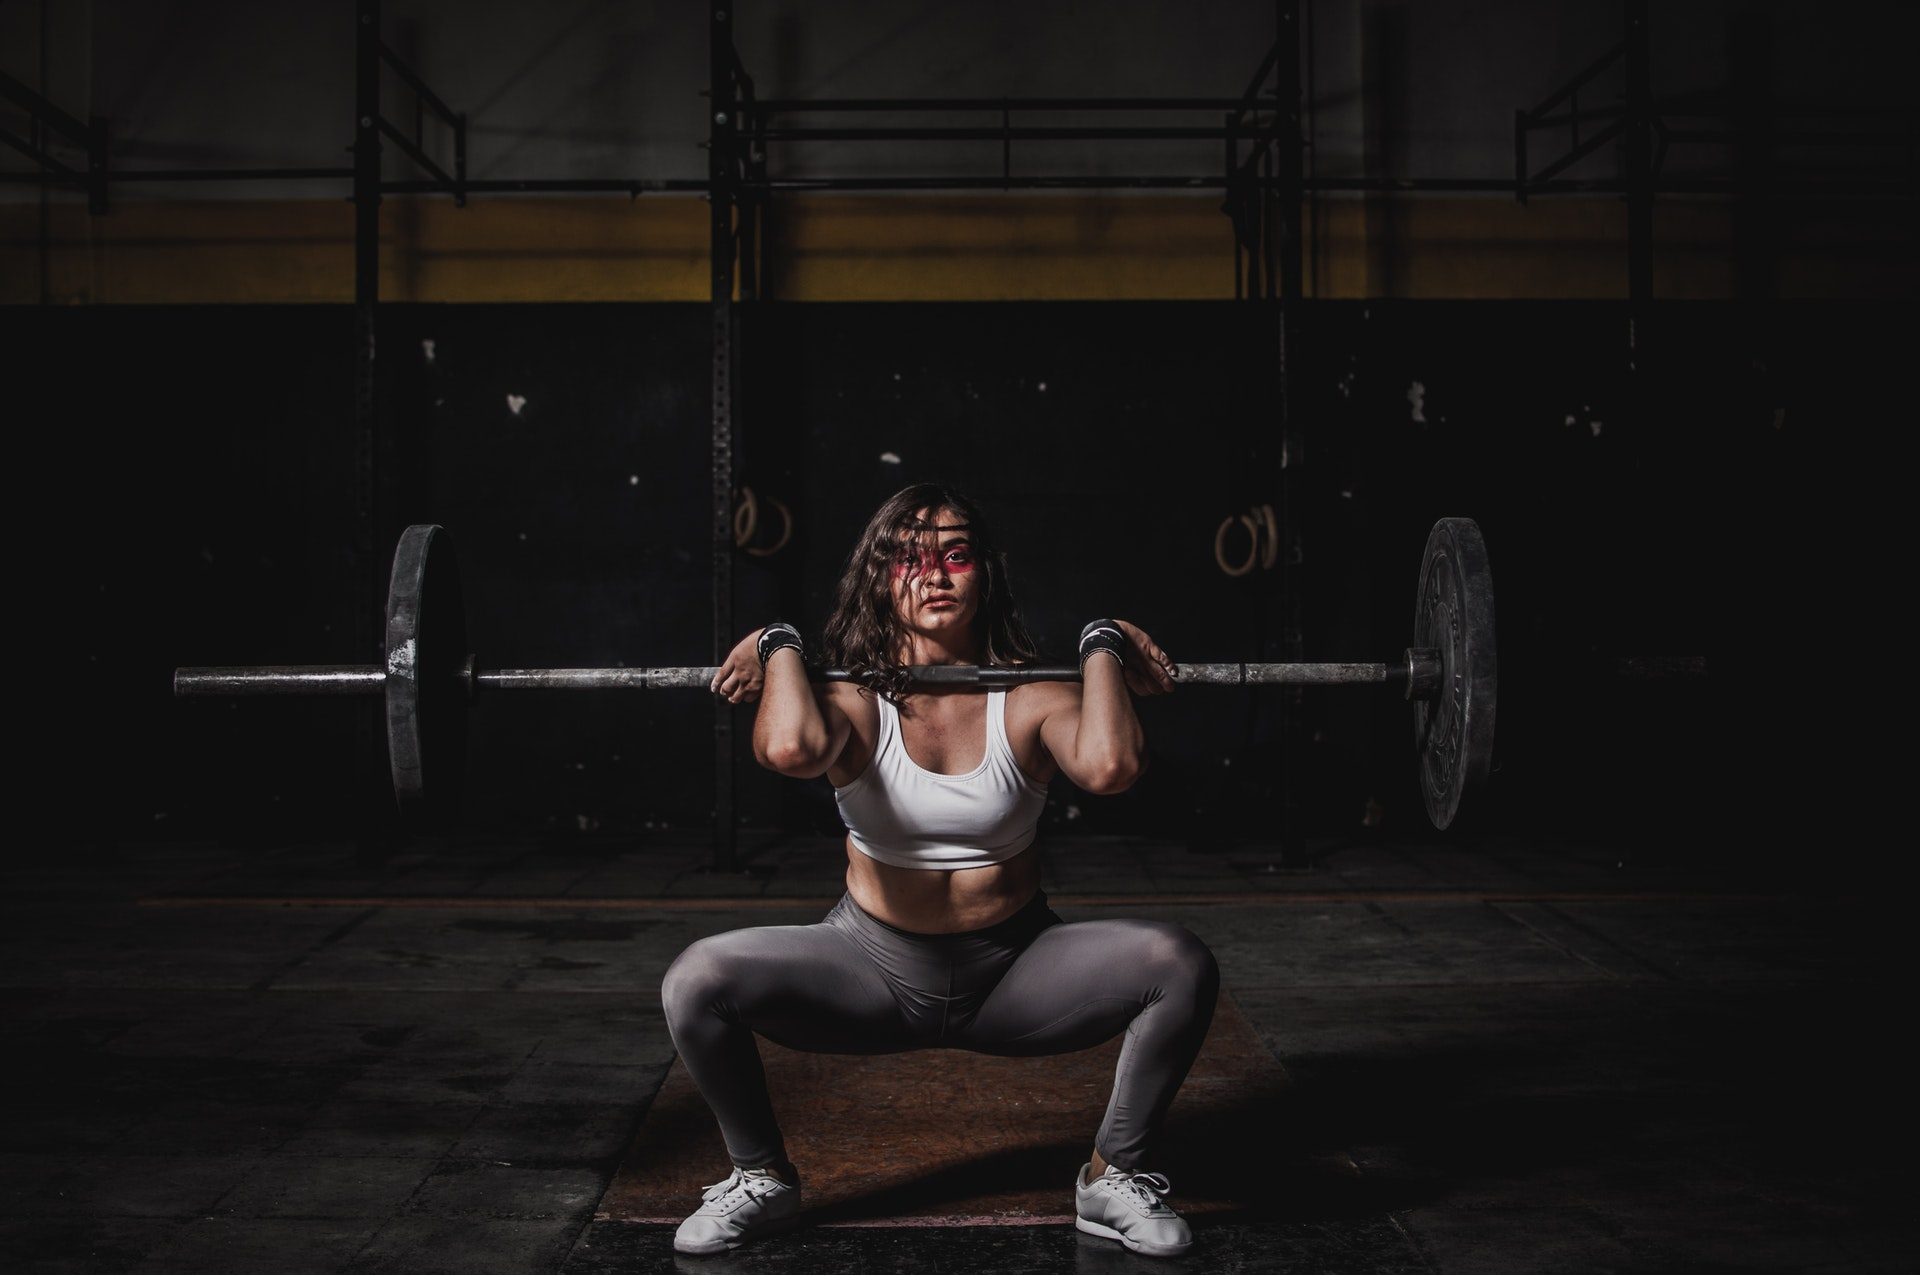
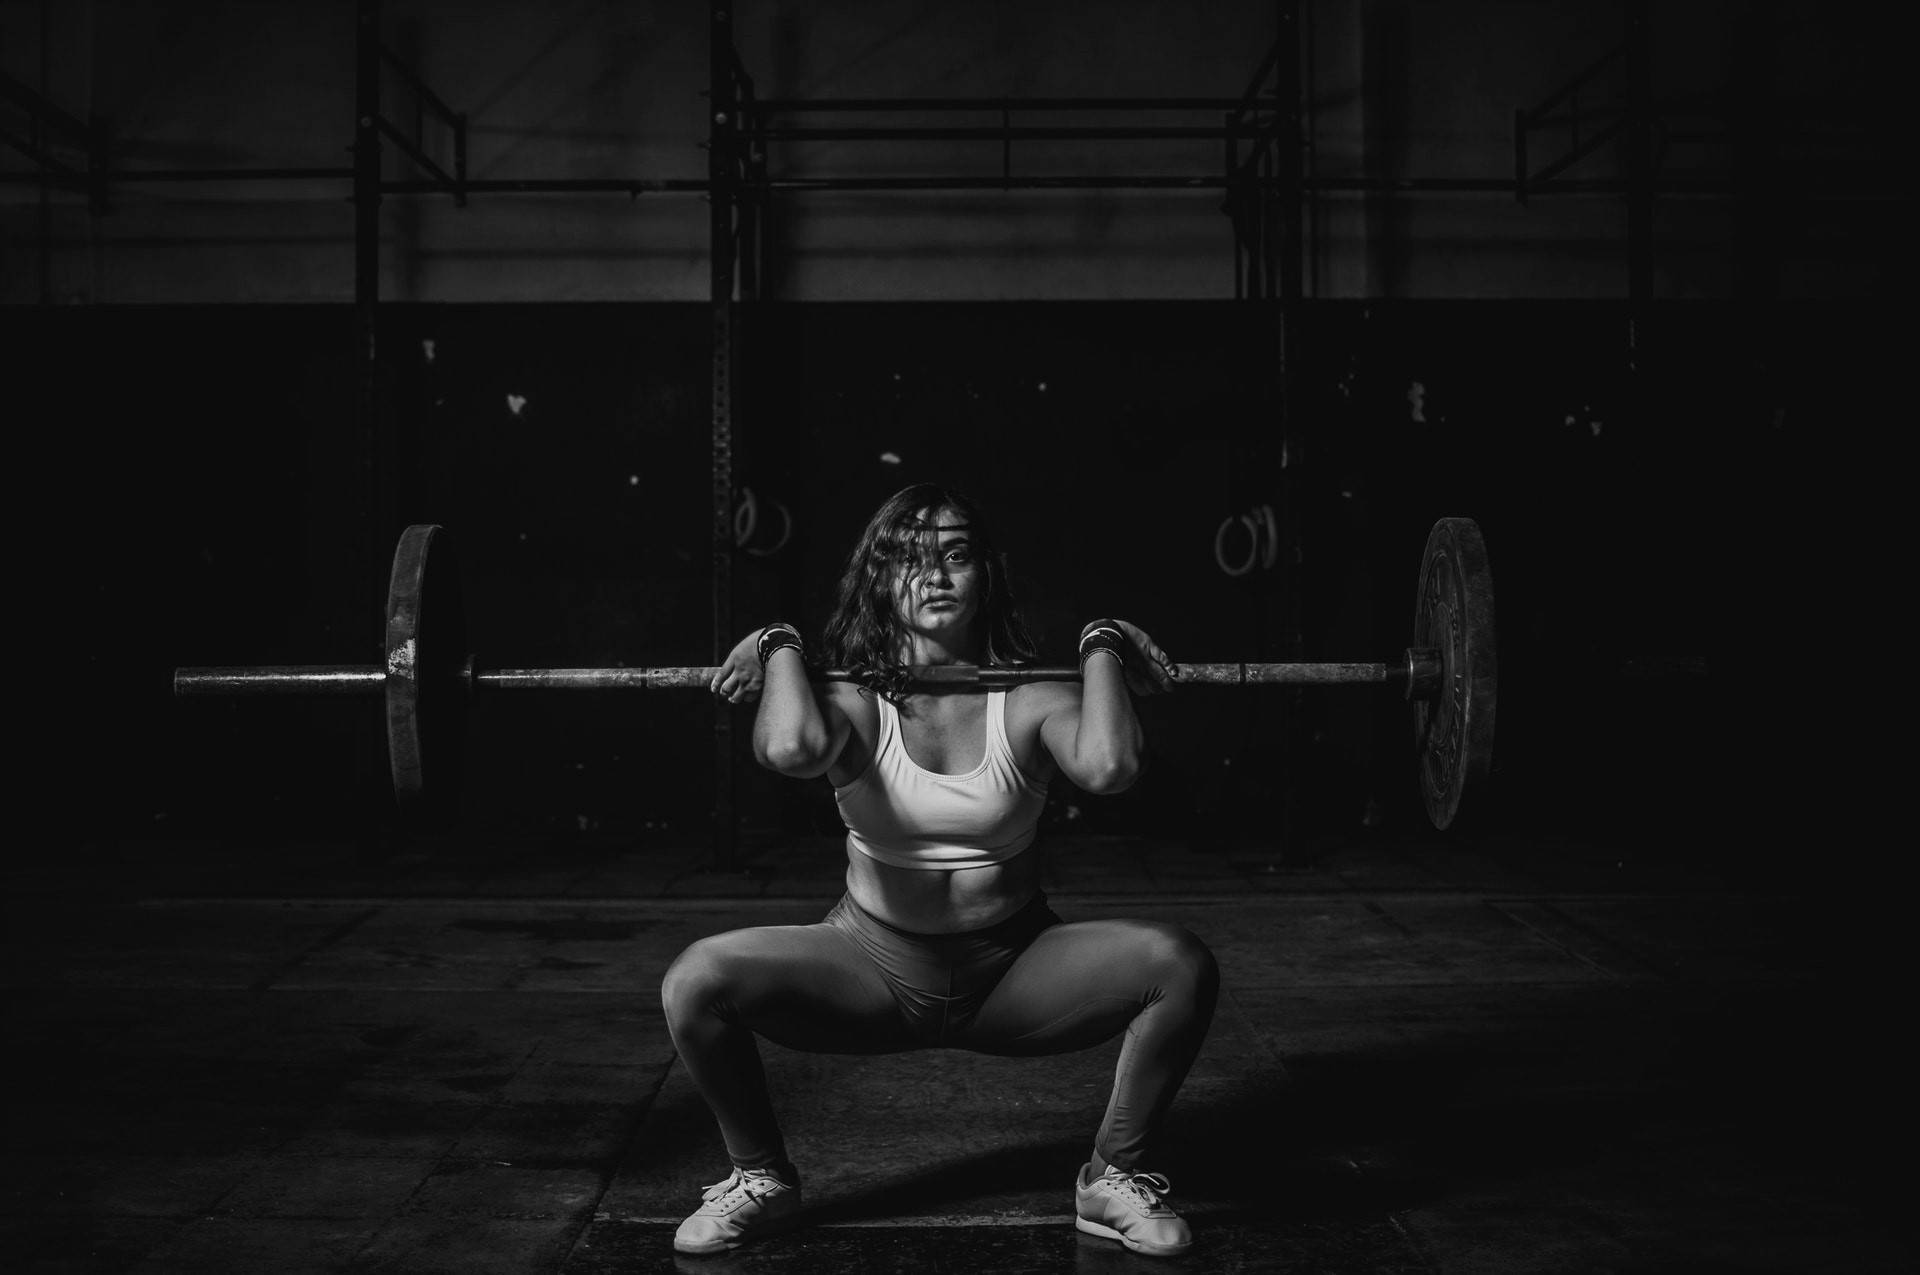
Second commit

diff --git a/index.html b/index.html
@@ -18,16 +18,55 @@
             <div class="collapse navbar-collapse" id="navbarText">
                 <ul class="navbar-nav mr-auto">
                     <li class="nav-item">
-                        <a class="nav-link" href="#">About</a>
+                        <a class="nav-link" href="#about">About</a>
                     </li>
                     <li class="nav-item">
-                        <a class="nav-link" href="#">Classes</a>
+                        <a class="nav-link" href="#classes">Classes</a>
                     </li>
                     <li class="nav-item">
                         <a class="nav-link" href="#">Gallery</a>
                     </li>
                 </ul>
-                <a href="/login" class="btn btn-s btn-darkred">Sign In</a>
+                <button type="button" class="btn btn-s btn-darkred" data-toggle="modal" data-target="#exampleModal">
+                    Sign In
+                </button>
+                <div class="modal fade" id="exampleModal" tabindex="-1" role="dialog" aria-labelledby="exampleModalLabel" aria-hidden="true">
+                    <div class="modal-dialog" role="document">
+                        <div class="modal-content">
+                            <div class="modal-header">
+                                <h5 class="modal-title" id="exampleModalLabel">Details</h5>
+                                <button type="button" class="close" data-dismiss="modal" aria-label="Close">
+                                    <span aria-hidden="true">&times;</span>
+                                </button>
+                            </div>
+                            <div class="modal-body">
+                                <form>
+                                    <div class="form-row">
+                                        <div class="col">
+                                            <input type="text" class="form-control" placeholder="First name">
+                                        </div>
+                                        <div class="col">
+                                            <input type="text" class="form-control" placeholder="Last name">
+                                        </div>
+                                    </div>
+                                    <div class="form-group">
+                                        <label for="formGroupExampleInput"></label>
+                                        <input type="text" class="form-control" id="formGroupExampleInput" placeholder="Email">
+                                    </div>
+                                    <div class="form-group">
+                                        <label for="formGroupExampleInput2"></label>
+                                        <input type="text" class="form-control" id="formGroupExampleInput2" placeholder="Password">
+                                    </div>
+                                    
+                                </form>
+                            </div>
+                            <div class="modal-footer">
+                                <button type="button" class="btn btn-secondary" data-dismiss="modal">Close</button>
+                                <button type="button" class="btn btn-s btn-darkred">Save changes</button>
+                            </div>
+                        </div>
+                    </div>
+                </div>
             </div>
         </nav>   
     </div>
@@ -35,11 +74,135 @@
         <div class="row">
             <div class="col-12">
                 <section class="jumbotron text-center">
-                    
+                    <h2 class="jumbotron-h">Congratulations on taking first steps towards your goal.</h2>
+                    <p class="lead">You deserve to feel your best everyday.</p>
+                    <a href="#about" class="btn btn-s btn-darkred">Find out more</a>
                 </section>
             </div>
         </div>
-
     </div>
+    <div class="jumbotron about text-center" id="about">
+        <h4 class="display-4">We are here for you!</h4>
+        <p class="lead">All our instructors are fully qualified & trained. We are a gym for people of all fitness levels and are passionate in helping you get the best from your workout in a safe and friendly environment.</p>
+        
+        <p class="lead">
+        <a class="btn btn-primary btn-lg" href="#classes" role="button">Learn more</a>
+        </p>
+    </div>
+    <div class="classes container-fluid">
+    <h1>Classes</h1>
+        <div class="classes-container">
+            <div class="row card-deck" id="classes">
+                <div class="card text-center col-sm-4">
+                    <div class="card-header">
+                        <h4>Free Trial</h4>
+                    </div>
+                    <div class="card-body">
+                        <h3 class="card-title">FREE / 1 Class</h3>
+                        <p class="card-text">First class is for free at MazeGym</p>
+                        <a href="#" class="btn btn-s btn-darkred">Go somewhere</a>
+                    </div>
+                </div>
+                <div class="card text-center col-sm-4">
+                    <div class="card-header">
+                        <h4>Pay per once</h4>
+                    </div>
+                    <div class="card-body">
+                        <h3 class="card-title">10€ / 1 Class</h3>
+                        <p class="card-text">One class at MazeGym</p>
+                        <a href="#" class="btn btn-primary">Go somewhere</a>
+                    </div>
+                </div>
+                <div class="card text-center col-sm-4">
+                    <div class="card-header">
+                        <h4>Private Training</h4>
+                    </div>
+                    <div class="card-body">
+                        <h3 class="card-title">300€ / per month </h3>
+                        <p class="card-text">4 private sessions per week</p>
+                        <a href="#" class="btn btn-primary">Go somewhere</a>
+                    </div>
+                </div>
+            </div>
+        </div>
+        <div class="classes-container second">
+            <div class="row card-deck">
+                <div class="card text-center col-sm-4">
+                    <div class="card-header">
+                        <h4>Training in Group</h4>
+                    </div>
+                    <div class="card-body">
+                        <h3 class="card-title">100€ / per month</h3>
+                        <p class="card-text">2 Group classes per week</p>
+                        <a href="#" class="btn btn-primary">Go somewhere</a>
+                    </div>
+                </div>
+                <div class="card text-center col-sm-4">
+                    <div class="card-header">
+                        <h4>Mom & Baby</h4>
+                    </div>
+                    <div class="card-body">
+                        <h3 class="card-title">100€ / per month</h3>
+                        <p class="card-text">Group classes twice per week</p>
+                        <a href="#" class="btn btn-primary">Go somewhere</a>
+                    </div>
+                </div>
+                <div class="card text-center col-sm-4">
+                    <div class="card-header">
+                        <h4>Under 18 / Unlimited</h4>
+                    </div>
+                    <div class="card-body">
+                        <h3 class="card-title">50€ / per month</h3>
+                        <p class="card-text"></p>
+                        <a href="#" class="btn btn-primary">Go somewhere</a>
+                    </div>
+                </div>
+            </div>
+        </div>
+    </div>
+    <div class="container-fluid gallery">
+        <h1>Gallery</h1>
+        <div id="carouselExampleFade" class="carousel slide carousel-fade" data-ride="carousel">
+            <div class="carousel-inner">
+                <div class="carousel-item active">
+                    <img src="assets/images/group1.jpg" class="d-block w-100" alt="...">
+                </div>
+                <div class="carousel-item">
+                    <img src="assets/images/group2.jpg" class="d-block w-100" alt="...">
+                </div>
+                <div class="carousel-item">
+                    <img src="assets/images/men1.jpg" class="d-block w-100" alt="...">
+                </div>
+                <div class="carousel-item">
+                    <img src="assets/images/men2.jpg" class="d-block w-100" alt="...">
+                </div>
+                <div class="carousel-item">
+                    <img src="assets/images/woman3.jpg" class="d-block w-100" alt="...">
+                </div>
+                <div class="carousel-item">
+                    <img src="assets/images/man3.jpg" class="d-block w-100" alt="...">
+                </div>
+                <div class="carousel-item">
+                    <img src="assets/images/woman4.jpg" class="d-block w-100" alt="...">
+                </div>
+            </div>
+            <a class="carousel-control-prev" href="#carouselExampleFade" role="button" data-slide="prev">
+                <span class="carousel-control-prev-icon" aria-hidden="true"></span>
+                <span class="sr-only">Previous</span>
+            </a>
+            <a class="carousel-control-next" href="#carouselExampleFade" role="button" data-slide="next">
+                <span class="carousel-control-next-icon" aria-hidden="true"></span>
+                <span class="sr-only">Next</span>
+            </a>
+        </div>
+    </div>
+    <div class="container-fluid video">
+        <iframe width="50%" height="50%" src="https://www.youtube.com/embed/m_7YzRBB_RA" frameborder="0" allow="accelerometer; autoplay; clipboard-write; encrypted-media; gyroscope; picture-in-picture" allowfullscreen></iframe>
+    </div>
+    <script src="https://code.jquery.com/jquery-3.5.1.slim.min.js" integrity="sha384-DfXdz2htPH0lsSSs5nCTpuj/zy4C+OGpamoFVy38MVBnE+IbbVYUew+OrCXaRkfj" crossorigin="anonymous"></script>
+    <script src="https://cdn.jsdelivr.net/npm/popper.js@1.16.1/dist/umd/popper.min.js" integrity="sha384-9/reFTGAW83EW2RDu2S0VKaIzap3H66lZH81PoYlFhbGU+6BZp6G7niu735Sk7lN" crossorigin="anonymous"></script>
+    <script src="https://cdn.jsdelivr.net/npm/bootstrap@4.5.3/dist/js/bootstrap.min.js" integrity="sha384-w1Q4orYjBQndcko6MimVbzY0tgp4pWB4lZ7lr30WKz0vr/aWKhXdBNmNb5D92v7s" crossorigin="anonymous"></script>
+    <footer>
+    </footer>
 </body>
 </html>

diff --git a/assets/css/style.css b/assets/css/style.css
@@ -1,19 +1,41 @@
-@import url('https://fonts.googleapis.com/css2?family=Noto+Sans:100,200,300,400,500,600,700|Open+Sans:100,200,300,400,500,600,700');
+@import url('https://fonts.googleapis.com/css2?family=Lora:100,200,300,400,500,600,700|Open+Sans:100,200,300,400,500,600,700');
 
 .container {
-    font-family: "Noto Sans", sans-serif;
+    font-family: "Lora", sans-serif;
     letter-spacing: 0.5px;
-    font-weight: 700;
+    font-weight: 500;
+    font-size:20px;
     padding-left: 0;
     padding-right: 0;
     margin-right: 0;
     margin-left: 0;
 }
 
+
+h1,
+h2,
+h3,
+h4 {
+    font-family: "Lora", sans-serif;
+}
+
+p {
+    font-family: "OpenSans", sans-serif;
+}
 /*--------------------------------Navbar*/
 
 .navbar {
     background-color: black;
+    margin: 0;
+    
+}
+
+.navbar-brand {
+    
+    font-size: 30px;
+    padding-left: 10px;
+    font-weight: bold;
+    
 }
 
 
@@ -21,32 +43,146 @@
 
 .btn-s {
     font-weight: bold;
-    border-radius: 20px;
+    border-radius: 5px;
     width: 140px;
 }
 
 .btn-darkred {
     color: white;
-    background-color: #ab3131;
-    border-color: #ab3131;
+    background-color: #861b3e;
+    border-color: #861b3e;
 }
 
 .btn-darkred:hover,
 .btn-darkred:active,
 .btn-darkred:focus,
 btn-darkred:active:focus {
-    background-color:#8a1a1a;
-    border-color: #8a1a1a;
+    background-color:#6b1e37;
+    border-color: #6b1e37;
     color: white;
 }
 
 .callout-container {
-    height: 150vh;
+    height: 93vh;
 
-    background: url("../images/woman.jpg") no-repeat center center fixed; 
+    background: url("../images/woman.jpg") no-repeat center center fixed;
     -webkit-background-size: cover;
     -moz-background-size: cover;
     -o-background-size: cover;
     background-size: cover;
-    filter: grayscale(100%);
+    
+    
 }
+
+.jumbotron {
+    background-color: transparent;
+    margin: 0;
+}
+
+.jumbotron-h {
+    color:white;
+    font-family: "Lora", sans-serif;
+    font-weight: bold;
+    margin-bottom: 30px;
+    margin-top: 8px;
+    text-shadow: 2px 2px#6d5d5d;
+    
+}
+
+.lead {
+    color: rgb(250, 244, 244);
+    font-size: 25px;
+    margin-bottom: 30px;
+    text-shadow: 1px 1px #6d5d5d;
+}
+
+.about {
+    height: 100vh;
+    background: url("../images/weights.jpg") no-repeat center center fixed;
+    -webkit-background-size: cover;
+    -moz-background-size: cover;
+    -o-background-size: cover;
+    background-size: cover;
+    padding-top: 150px;
+}
+
+.about h4 {
+    color: #ffffff;
+}
+
+.classes {
+    background-color: black;
+    grid-auto-flow: column;
+    
+}
+
+.classes-container {
+    margin-right: 10%;
+    margin-left: 10%;
+    padding-top: 10%;
+    padding-bottom: 10%;
+}
+
+.card {
+    padding: 0;
+    
+    
+}
+
+.classes h1 {
+    
+    color: white;
+    text-align: center;
+    padding-top: 10%;
+    font-size: 5rem;
+    font-weight: 700;
+}
+
+
+.card-header h4 {
+    font-weight: bold;
+}
+
+.second {
+    padding-top: 50px;
+}
+
+.gallery {
+    height: 100vh;
+    background: url("../images/floors.jpg") no-repeat center center fixed;
+    -webkit-background-size: cover;
+    -moz-background-size: cover;
+    -o-background-size: cover;
+    background-size: cover;
+    width: 100%;
+}
+
+.gallery h1 {
+    color: white;
+    text-align: center;
+    font-size: 5rem;
+    font-weight: 700;
+    padding-top: 5%;
+}
+
+.carousel {
+    display: block;
+    margin-left: auto;
+    margin-right: auto;
+    width: 60%;
+    align-content: center;
+}
+
+.video {
+    background-color: black;
+    height: 100vh;
+}
+
+
+
+
+
+
+
+
+
